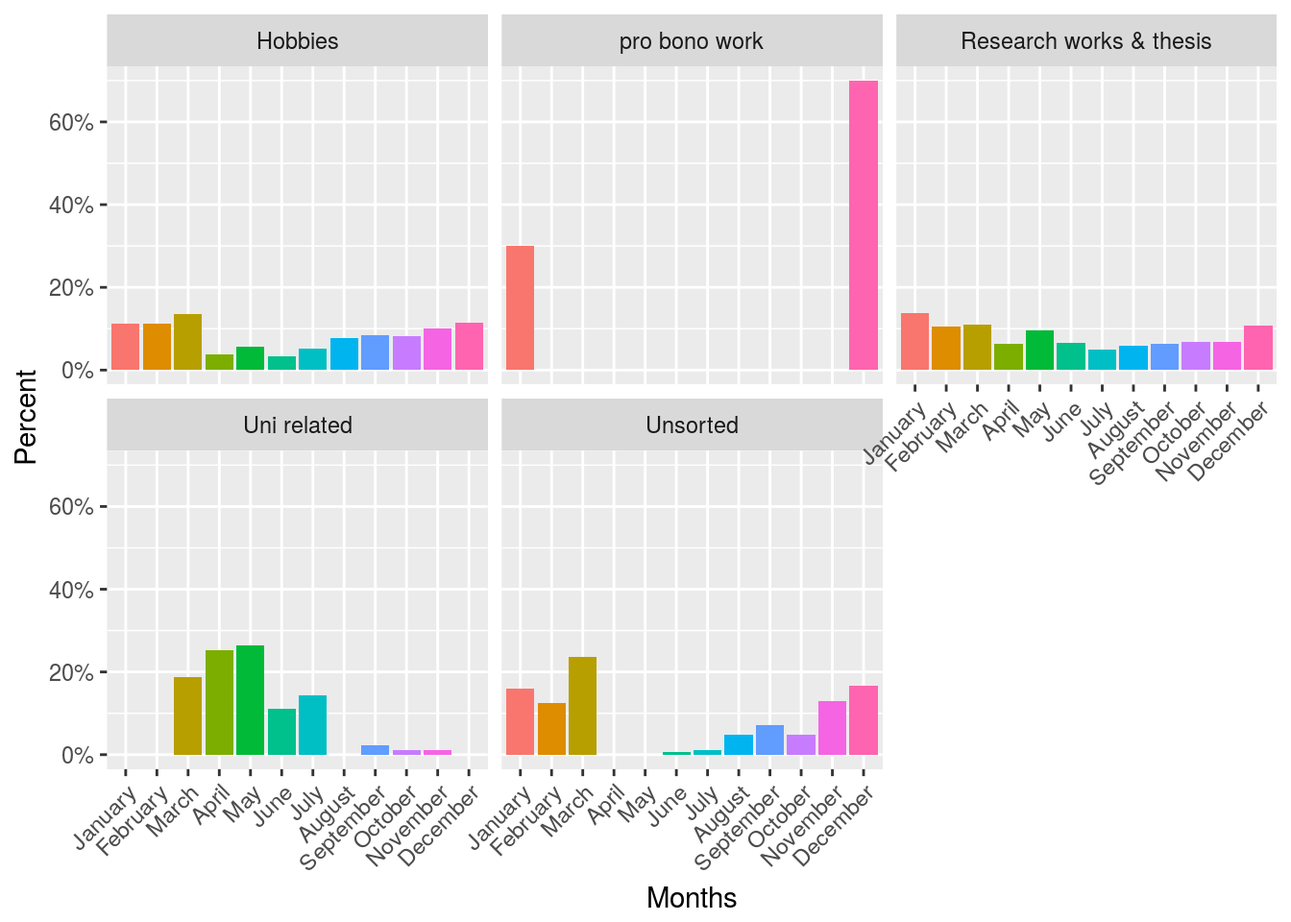
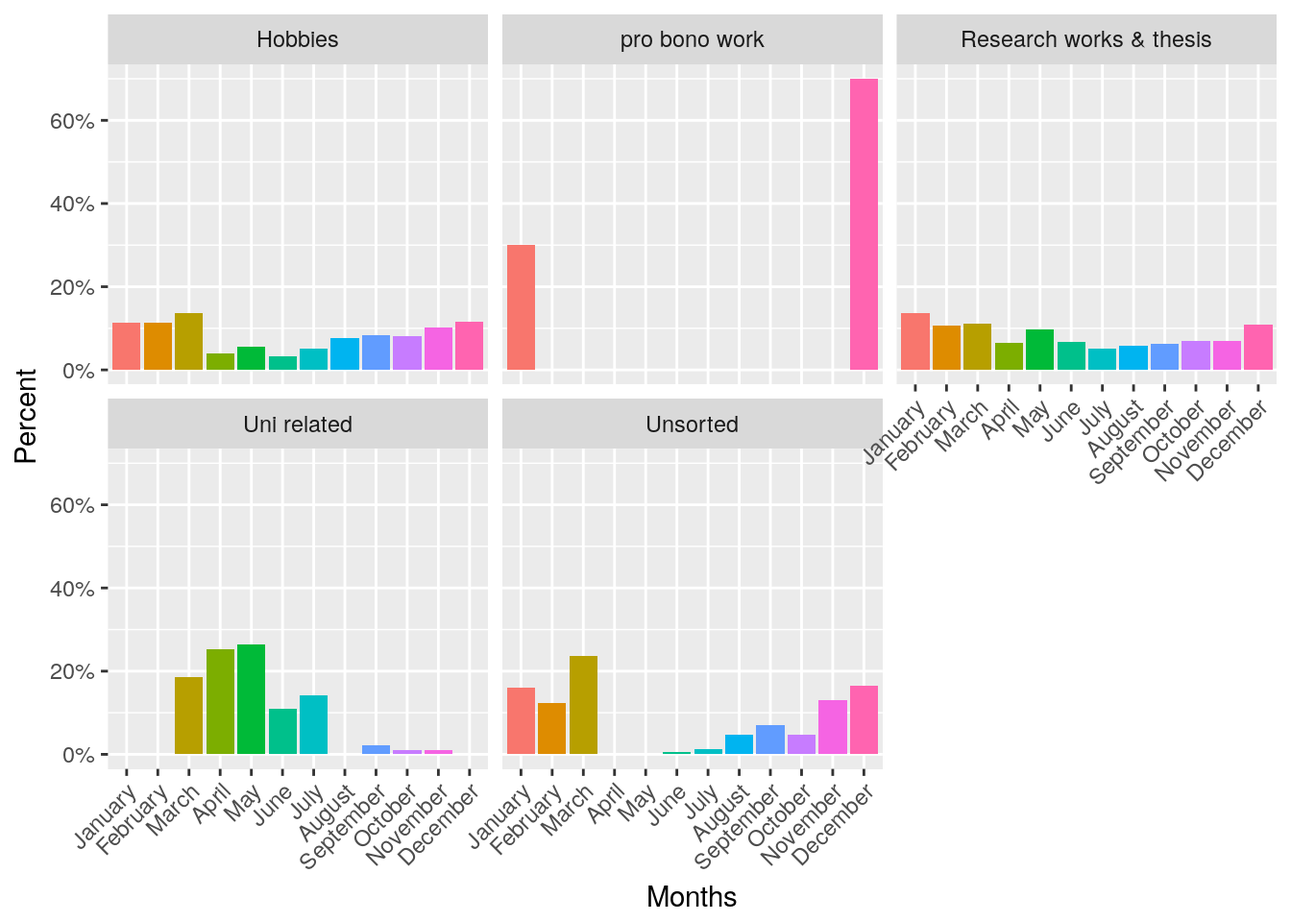
minor changes in CV, added subject based plots to time track post, added video iframe to gscholar app post

diff --git a/time_track_my_activities.html b/time_track_my_activities.html
@@ -447,8 +447,8 @@ highes_and_lowest_frequent_activities &lt;- activities_460_days %&gt;%
 
 # Ten most frequent and time consuming activities 
 DT::datatable(arrange(.data = highes_and_lowest_frequent_activities, desc(frequency))[1:10, ], caption = &quot;10 most frequent and 10 most time consuming activities (Sort based on &#39;frequency&#39; or &#39;time_spent&#39; columns by click)&quot;)</code></pre>
-<div id="htmlwidget-1ce63391b1d425d424d5" style="width:100%;height:auto;" class="datatables html-widget"></div>
-<script type="application/json" data-for="htmlwidget-1ce63391b1d425d424d5">{"x":{"filter":"none","caption":"<caption>10 most frequent and 10 most time consuming activities (Sort based on 'frequency' or 'time_spent' columns by click)<\/caption>","data":[["1","2","3","4","5","6","7","8","9","10"],["Research works &amp; thesis","Hobbies","Hobbies","Research works &amp; thesis","Hobbies","Hobbies","Research works &amp; thesis","Research works &amp; thesis","Unsorted","Hobbies"],["general think &amp; planing or discussion","checking Email &amp; internet &amp; social media","TV series &amp; Movies","Data gathering &amp; analysis","hangout with friends or going out with them","bike ride","Literature review","writing reports","cleaning &amp; home activities","Runing &amp; jogging &amp; walking &amp; swimming"],[844,684,394,350,338,277,199,185,169,145],[44746,21658,32604,43517,29367,8516,19178,20334,5101,7521],[746,361,543,725,489,142,320,339,85,125]],"container":"<table class=\"display\">\n  <thead>\n    <tr>\n      <th> <\/th>\n      <th>category<\/th>\n      <th>activity<\/th>\n      <th>frequency<\/th>\n      <th>time_spent_minutes<\/th>\n      <th>time_spent_hours<\/th>\n    <\/tr>\n  <\/thead>\n<\/table>","options":{"columnDefs":[{"className":"dt-right","targets":[3,4,5]},{"orderable":false,"targets":0}],"order":[],"autoWidth":false,"orderClasses":false},"selection":{"mode":"multiple","selected":null,"target":"row"}},"evals":[],"jsHooks":[]}</script>
+<div id="htmlwidget-6e5e61086a0e14767c24" style="width:100%;height:auto;" class="datatables html-widget"></div>
+<script type="application/json" data-for="htmlwidget-6e5e61086a0e14767c24">{"x":{"filter":"none","caption":"<caption>10 most frequent and 10 most time consuming activities (Sort based on 'frequency' or 'time_spent' columns by click)<\/caption>","data":[["1","2","3","4","5","6","7","8","9","10"],["Research works &amp; thesis","Hobbies","Hobbies","Research works &amp; thesis","Hobbies","Hobbies","Research works &amp; thesis","Research works &amp; thesis","Unsorted","Hobbies"],["general think &amp; planing or discussion","checking Email &amp; internet &amp; social media","TV series &amp; Movies","Data gathering &amp; analysis","hangout with friends or going out with them","bike ride","Literature review","writing reports","cleaning &amp; home activities","Runing &amp; jogging &amp; walking &amp; swimming"],[844,684,394,350,338,277,199,185,169,145],[44746,21658,32604,43517,29367,8516,19178,20334,5101,7521],[746,361,543,725,489,142,320,339,85,125]],"container":"<table class=\"display\">\n  <thead>\n    <tr>\n      <th> <\/th>\n      <th>category<\/th>\n      <th>activity<\/th>\n      <th>frequency<\/th>\n      <th>time_spent_minutes<\/th>\n      <th>time_spent_hours<\/th>\n    <\/tr>\n  <\/thead>\n<\/table>","options":{"columnDefs":[{"className":"dt-right","targets":[3,4,5]},{"orderable":false,"targets":0}],"order":[],"autoWidth":false,"orderClasses":false},"selection":{"mode":"multiple","selected":null,"target":"row"}},"evals":[],"jsHooks":[]}</script>
 <p>After sorting above table based on ‘<strong>frequency</strong>’ or ‘<strong>time_spent</strong>’ columns (by clicking on the column names), one interesting fact gets revealed. I call it <em>memory’s misleading recalls</em>! I don’t know if it is a thing in Psychology and similar sciences or not, but with experience I have found out that my memory reminds (or emphasizes) some activities more than others, and when I think about those activities, <em>I realize my memory tends to pick them based on the frequency of the times I have been doing them, not based on the time spent on them</em>.</p>
 <p>Let me put it in an example, imagine that in a long working day, I have spent two big shares of my time, in an uninterrupted manner, on my research activities, each for 3 hours. But during this day, for five times I had to check a social media page to follow-up news on an ongoing event, each time for 5-10 minutes.</p>
 <p>At the end of the day, my perfectionist mind tricks me into believing that I have been checking that social media page a lot during the day and I haven’t worked much, while looking at the time spent on these activities we clearly see that they are not comparable.</p>
@@ -458,8 +458,8 @@ DT::datatable(activities_460_days %&gt;%
   group_by(category) %&gt;% 
   summarise(frequency = n(), time_spent = sum(duration_minutes, na.rm = T)) %&gt;%
   arrange(desc(time_spent)))</code></pre>
-<div id="htmlwidget-9ff1045e2a2f734c6e71" style="width:100%;height:auto;" class="datatables html-widget"></div>
-<script type="application/json" data-for="htmlwidget-9ff1045e2a2f734c6e71">{"x":{"filter":"none","data":[["1","2","3","4","5"],["Research works &amp; thesis","Hobbies","Uni related","Unsorted","pro bono work"],[1777,1975,91,169,10],[151784,107931,9841,5101,902]],"container":"<table class=\"display\">\n  <thead>\n    <tr>\n      <th> <\/th>\n      <th>category<\/th>\n      <th>frequency<\/th>\n      <th>time_spent<\/th>\n    <\/tr>\n  <\/thead>\n<\/table>","options":{"columnDefs":[{"className":"dt-right","targets":[2,3]},{"orderable":false,"targets":0}],"order":[],"autoWidth":false,"orderClasses":false},"selection":{"mode":"multiple","selected":null,"target":"row"}},"evals":[],"jsHooks":[]}</script>
+<div id="htmlwidget-99e0dddce337580f3f1f" style="width:100%;height:auto;" class="datatables html-widget"></div>
+<script type="application/json" data-for="htmlwidget-99e0dddce337580f3f1f">{"x":{"filter":"none","data":[["1","2","3","4","5"],["Research works &amp; thesis","Hobbies","Uni related","Unsorted","pro bono work"],[1777,1975,91,169,10],[151784,107931,9841,5101,902]],"container":"<table class=\"display\">\n  <thead>\n    <tr>\n      <th> <\/th>\n      <th>category<\/th>\n      <th>frequency<\/th>\n      <th>time_spent<\/th>\n    <\/tr>\n  <\/thead>\n<\/table>","options":{"columnDefs":[{"className":"dt-right","targets":[2,3]},{"orderable":false,"targets":0}],"order":[],"autoWidth":false,"orderClasses":false},"selection":{"mode":"multiple","selected":null,"target":"row"}},"evals":[],"jsHooks":[]}</script>
 </div>
 <div id="most-least-active-month-week-day-and-hour-of-day" class="section level3">
 <h3>Most &amp; least active month, week, day and hour of day</h3>
@@ -488,7 +488,7 @@ ggplot(activities_460_days, aes(x = month_day,  group = category)) +
     facet_wrap(~category_2cat) +
     scale_y_continuous(labels = percent) +
       guides(fill = FALSE) +
-  theme(axis.text.x = element_text(angle = 0, hjust = 1)) +
+  theme(axis.text.x = element_text(angle = 45, hjust = 1)) +
   scale_x_continuous(breaks = pretty_breaks(n = 31)(1:31))</code></pre>
 <p><img src="time_track_my_activities_files/figure-html/month%20day%20and%20week%20activities%202-1.png" width="672" /></p>
 <p>It is surprising for me that overall speaking, on 9<sup>th</sup> and 31<sup>st</sup> days of the month I have been the most active on <em>work related stuff</em>, Why? I have to check the reason on my calendar and through comparative analysis of other sources (like <a href="./my_google_searches.html">Google searches</a>). But in case of <code>Hobbies</code> I have been allocating quite similar share of time to them during days of month.</p>
@@ -567,16 +567,46 @@ ggplot() +
 <p><img src="time_track_my_activities_files/figure-html/most%20active%20hours%20of%20day-2.png" width="672" /></p>
 <pre class="r"><code># you can do above in a more efficient way by plotting a bar plot in a grouped way, to have start and end times for work and hobby compared together, it will need turning data set to long format, you can try it as an alternative way of presenting results</code></pre>
 <p>This shows the hours and the number of times I have <em>started</em> and <em>ended</em> activities. The time which I have started highest number of <code>Work</code> activities have been <strong>9</strong>. And the time which I have started highest number of <code>Hobby</code> activities have been <strong>19</strong>.</p>
-<!-- ### Comparative trends of activities and categories over time -->
 <!-- ### my recorded activities versus my Googe searches -->
 <!-- - You can summarize the activities over months and weeks and compare it with Google searches data to see if there are similar trends or not? -->
-<!-- ### Other trends to consider (point 7 on my notes) -->
-<!-- - you can add more detailed questions like "what research activity I have spend the most time on?" or "how has been the trend of my workouts in this year?" -->
+</div>
+<div id="time-trend-of-activities-based-on-subject" class="section level3">
+<h3>Time trend of activities based on subject</h3>
+<p>Here I have tried to answer questions like “What research activity I have spend the most time on?” or “How has been the trend of my workouts in this year?” So I have tried to have a look at the time trend of activities based on their subjects.</p>
+<pre class="r"><code>research_activities &lt;- activities_460_days %&gt;% 
+  filter(category %in% &quot;Research works &amp; thesis&quot;)
+
+ggplot(research_activities, aes(x = month_name,  group = activity)) + 
+    geom_bar(aes(y = ..prop.., fill = factor(..x..)), stat = &quot;count&quot;) +
+    # geom_text(aes( label = scales::percent(..prop..),
+    #                y = ..prop.. ), stat = &quot;count&quot;, vjust = -.20) +
+    labs(y = &quot;Percent&quot;, x = &quot;Months&quot;, fill = &quot;activity&quot;, scale_color_manual(labels = as.factor(research_activities$activity))) +
+    facet_wrap(~activity) +
+    scale_y_continuous(labels = percent) +
+      guides(fill = FALSE) +
+  theme(axis.text.x = element_text(angle = 45, hjust = 1))</code></pre>
+<p><img src="time_track_my_activities_files/figure-html/how%20I%20have%20done%20research-1.png" width="672" /></p>
+<p>Aparently, there are main research activities that I have been spending quite similar share of time on them during the whole period under focus, like <em>general think and discussions</em>, <em>data gathering</em> and <em>literature review</em>. On the other hand, I have not been <em>writing reports</em> of the researches all the time or in a equal fashion.</p>
+<pre class="r"><code>leisure_activities &lt;- activities_460_days %&gt;% 
+  filter(category %in% &quot;Hobbies&quot;)
+
+ggplot(leisure_activities, aes(x = month_name,  group = activity)) + 
+    geom_bar(aes(y = ..prop.., fill = factor(..x..)), stat = &quot;count&quot;) +
+    # geom_text(aes( label = scales::percent(..prop..),
+    #                y = ..prop.. ), stat = &quot;count&quot;, vjust = -.20) +
+    labs(y = &quot;Percent&quot;, x = &quot;Months&quot;, fill = &quot;activity&quot;, scale_color_manual(labels = as.factor(leisure_activities$activity))) +
+    facet_wrap(~activity) +
+    scale_y_continuous(labels = percent) +
+      guides(fill = FALSE) +
+  theme(axis.text.x = element_text(angle = 45, hjust = 1))</code></pre>
+<p><img src="time_track_my_activities_files/figure-html/how%20I%20have%20done%20leisure-1.png" width="672" /></p>
+<p>Seems checking social media and being on internet and watching tv series and movies are among those hobbies I have been allocating quite flat share of time to them, while riding bike or running have experienced ups and downs.</p>
 </div>
 </div>
 <div id="closing-words" class="section level2">
 <h2>Closing words</h2>
-<p>This has been another practice for me in using R to analyze and generate a dynamic report based on real empirical data and also to get better in writing code and scripts with expressive and useful comments that can be used to teach R to newbies. Beside that it was an opportunity to know myself better. To have a detailed view towards my research and hobby activities. But, this is not yet finished, I hope to put time on adding other ideas to make this report more insightful first for myself, then to other interested people.</p>
+<p>This has been another practice for me in using R to analyze and generate a dynamic report based on real empirical data and also to get better in writing code and scripts with expressive and useful comments that can be used to teach R.</p>
+<p>Beside that it was an opportunity to know myself better. To have a detailed view towards my research and hobby activities. But, this is not yet finished, I hope to put time on adding other ideas to make this report more insightful, first for myself.</p>
 </div>
 
 

diff --git a/3AT_cv.html b/3AT_cv.html
@@ -307,13 +307,13 @@ div.tocify {
 <div id="all-my-activities-in-one-glance" class="section level2">
 <h2>All my activities in one glance</h2>
 <p>Use mouse scroll to zoom in and out to explore more, drag to move on the timeline.</p>
-<div id="htmlwidget-7ddf8e22afc718bc24be" class="timevis html-widget" style="width:100%;height:480px;">
+<div id="htmlwidget-82c2731d4325ac3c5dd4" class="timevis html-widget" style="width:100%;height:480px;">
 <div class="btn-group zoom-menu">
 <button type="button" class="btn btn-default btn-lg zoom-in" title="Zoom in">+</button>
 <button type="button" class="btn btn-default btn-lg zoom-out" title="Zoom out">-</button>
 </div>
 </div>
-<script type="application/json" data-for="htmlwidget-7ddf8e22afc718bc24be">{"x":{"items":[{"group":"1","content":"BA","start":"2004-09-21","end":"2008-07-21"},{"group":"1","content":"MA","start":"2008-09-21","end":"2011-07-21"},{"group":"1","content":"1st PhD","start":"2011-09-21","end":"2015-10-30"},{"group":"1","content":"2nd PhD","start":"2015-11-01","end":"2018-10-01"},{"group":"2","content":"1st PhD visit Brest France","start":"2015-02-24","end":"2015-07-30"},{"group":"2","content":"1st PhD visit Barcelona Spain","start":"2015-07-06","end":"2015-07-30"},{"group":"3","content":"ABM Unibs","start":"2017-09-04","end":"2017-09-08"},{"group":"3","content":"Python Trento uni","start":"2017-04-12","end":"2017-04-13"},{"group":"3","content":"ABM Unibs","start":"2016-06-20","end":"2016-06-24"},{"group":"3","content":"Rsiena 2nd EUSN","start":"2016-06-14 09:00","end":"2016-06-14 12:00"},{"group":"3","content":"TERGM 2nd EUSN","start":"2016-06-14 14:00","end":"2016-06-14 17:00"},{"group":"3","content":"SNA Lugano PhD Course","start":"2016-04-29","end":"2016-06-08"},{"group":"3","content":"ERGM Lugano USI","start":"2016-04-18","end":"2016-04-20"},{"group":"3","content":"PNA Barcelona Spain","start":"2015-07-06","end":"2015-07-10"},{"group":"4","content":"Sooremehr R&D","start":"2011-09-21","end":"2013-12-21"},{"group":"4","content":"MCI R&D","start":"2014-01-05","end":"2014-05-05"},{"group":"5","content":"Yazd uni","start":"2012-01-10","end":"2013-07-21"},{"group":"5","content":"AST uni","start":"2012-04-01","end":"2013-07-21"}],"groups":[{"id":"1","content":"Education"},{"id":"2","content":"Research visit"},{"id":"3","content":"Short courses"},{"id":"4","content":"Work"},{"id":"5","content":"Part-time Teaching"}],"showZoom":true,"zoomFactor":0.5,"fit":true,"options":[],"height":null,"api":[]},"evals":[],"jsHooks":[]}</script>
+<script type="application/json" data-for="htmlwidget-82c2731d4325ac3c5dd4">{"x":{"items":[{"group":"1","content":"BA","start":"2004-09-21","end":"2008-07-21"},{"group":"1","content":"MA","start":"2008-09-21","end":"2011-07-21"},{"group":"1","content":"1st PhD","start":"2011-09-21","end":"2015-10-30"},{"group":"1","content":"2nd PhD","start":"2015-11-01","end":"2018-10-01"},{"group":"2","content":"1st PhD visit Brest France","start":"2015-02-24","end":"2015-07-30"},{"group":"2","content":"1st PhD visit Barcelona Spain","start":"2015-07-06","end":"2015-07-30"},{"group":"3","content":"ABM Unibs","start":"2017-09-04","end":"2017-09-08"},{"group":"3","content":"Python Trento uni","start":"2017-04-12","end":"2017-04-13"},{"group":"3","content":"ABM Unibs","start":"2016-06-20","end":"2016-06-24"},{"group":"3","content":"Rsiena 2nd EUSN","start":"2016-06-14 09:00","end":"2016-06-14 12:00"},{"group":"3","content":"TERGM 2nd EUSN","start":"2016-06-14 14:00","end":"2016-06-14 17:00"},{"group":"3","content":"SNA Lugano PhD Course","start":"2016-04-29","end":"2016-06-08"},{"group":"3","content":"ERGM Lugano USI","start":"2016-04-18","end":"2016-04-20"},{"group":"3","content":"PNA Barcelona Spain","start":"2015-07-06","end":"2015-07-10"},{"group":"4","content":"Sooremehr R&D","start":"2011-09-21","end":"2013-12-21"},{"group":"4","content":"MCI R&D","start":"2014-01-05","end":"2014-05-05"},{"group":"5","content":"Yazd uni","start":"2012-01-10","end":"2013-07-21"},{"group":"5","content":"AST uni","start":"2012-04-01","end":"2013-07-21"}],"groups":[{"id":"1","content":"Education"},{"id":"2","content":"Research visit"},{"id":"3","content":"Short courses"},{"id":"4","content":"Work"},{"id":"5","content":"Part-time Teaching"}],"showZoom":true,"zoomFactor":0.5,"fit":true,"options":[],"height":null,"api":[]},"evals":[],"jsHooks":[]}</script>
 </div>
 <div id="personal-and-contact-information" class="section level2">
 <h2>Personal and Contact information</h2>
@@ -431,7 +431,7 @@ div.tocify {
 <ul>
 <li><strong>Workshop Instructor</strong> and Organizer in research methods and SNA (Social Network Analysis)
 <ul>
-<li>Teaching more than <strong>10 workshops</strong> about how to formulate research problems and do network analysis using Pajek and NodeXL</li>
+<li>Teaching more than <a href="http://goo.gl/3L6j2U"><strong>10 workshops</strong></a> about how to formulate research problems and do network analysis using Pajek and NodeXL <a href="http://goo.gl/3L6j2U"><strong>see visual history here</strong></a></li>
 </ul></li>
 <li><strong>University lecturer</strong> in field of Sociology for more than two years;
 <ul>
@@ -466,7 +466,7 @@ div.tocify {
 <ul>
 <li><strong>Akbaritabar, Aliakbar</strong>, (2017) <em>Iranian’s Cyber Social Capital A comparative SNA study on a sample of English, French and Persian speaking users of Facebook &amp; Google plus</em>, SNA group, Iranian Sociological Association - June 19th, 2017, Tehran, Iran</li>
 <li><strong>Akbaritabar, Aliakbar</strong>, Casnici, Niccolo, Squazzoni, Flaminio (2017) <em>Where are sociologists embedded? A study on research productivity of sociologists in Italy</em>, GECS (research Group in Experimental and Computational Sociology) seminars - January 13, 2017, University of Brescia, Brescia, Italy</li>
-<li><strong>Akbaritabar, Aliakbar</strong>, (2016) <em>how do scholars collaborate with each other? Comparative study on Co-authorship Networks of Scholars Worldwide Using Big Data</em>, Second European Conference on Social Networks (EUSN), June 14-17, 2016, Paris, France <a href="https://www.youtube.com/watch?v=h2QIYbMJ3v4&amp;t=7s">(see here)</a></li>
+<li><strong>Akbaritabar, Aliakbar</strong>, (2016) <em>how do scholars collaborate with each other? Comparative study on Co-authorship Networks of Scholars Worldwide Using Big Data</em>, Second European Conference on Social Networks (EUSN), June 14-17, 2016, Paris, France <a href="https://www.youtube.com/watch?v=h2QIYbMJ3v4&amp;t=7s">(see video here)</a> and <a href="https://eusn2016.sciencesconf.org/conference/eusn2016/program_overview.pdf">here</a></li>
 <li><strong>Akbaritabar, Aliakbar</strong>, Hezarjaribi, jafar (2015) <em>Virtual/Cyber Social Capital; a new method to measure Online Social Capital</em>, 35th Sunbelt Organized by INSNA, June 23th -28th, Brighton, UK <a href="https://www.youtube.com/watch?v=XrfMEmpmFyw&amp;t=1s">(see here)</a></li>
 <li><strong>Akbaritabar, Aliakbar</strong>, Eskandaripour, Ebrahim, Ahmadigharacheh, Ehsan (2015) <em>Virtual/Cyber Social Capital; a new method to measure Online Social Capital</em>, 1st Annual Computational Social Science Summit: Collaborative Futures, 15-17 May 2015, Kellogg School of Management, Northwestern University, USA (Poster presentation)</li>
 <li><strong>Akbaritabar, Aliakbar</strong> (2013) <em>Organizational Network Analysis (ONA): How Social Media will change the way Information is shared in Organizations</em>, Second National Conference on Social Media day, May 2013, Tehran, Iran</li>
@@ -492,7 +492,7 @@ div.tocify {
 <h3>Accepted but not presented (due to financial, visa or personal issues)</h3>
 <ul>
 <li><strong>Akbaritabar, Aliakbar</strong>, Bianchi, Federico, Jullien, Nicolas (2017) <em>Fairness and Reciprocity in Online Communities. A Large-Scale Survey Experiment among French Wikipedia Users</em>, accepted to be presented Orally, 3rd European social networks conference, September 26-29, 2017, Mainz, Germany</li>
-<li><strong>Akbaritabar, Aliakbar</strong>, Hezarjaribi, Jafar, Jullien, Nicolas (2015) <em>Virtual/Cyber Social Capital; a new method to measure Online Social Capital</em>, accepted to be presented Orally and published in The 2015 IEEE/ACM International Conference on Advances in Social Networks Analysis and Mining (ASONAM), August 25-28, 2015, Paris, France</li>
+<li><strong>Akbaritabar, Aliakbar</strong>, Hezarjaribi, Jafar, Jullien, Nicolas (2015) <em>Virtual/Cyber Social Capital; a new method to measure Online Social Capital</em>, accepted to be presented Orally and published in The 2015 IEEE/ACM International Conference on Advances in Social Networks Analysis and Mining (ASONAM), August 25-28, 2015, Paris, France <a href="http://asonam.cpsc.ucalgary.ca/2015/AcceptedMultidisciplinaryTrack.php">see here</a></li>
 <li><strong>Akbaritabar, Aliakbar</strong> (2013) <em>A SNA Study on Iranian Online Social Networks; Case Study of Doreh and U24</em>, accepted for Oral presentation at 33th Sunbelt Organized by INSNA, May 21th-26th, 2013, Hamburg, Germany</li>
 <li><strong>Akbaritabar, Aliakbar</strong> (2011) <em>A SNA Study of Social Networking Sites</em>, accepted for Oral presentation at 7th UKSNA, July 7th-9th, 2011, University of Greenwich, UK</li>
 <li><strong>Akbaritabar, Aliakbar</strong> (2011) <em>A SNA Study of Online Social Networks</em>, accepted for Oral presentation at 1st Global Conference on Social Networking Revolutions, September 7-9, 2011, Washington University, USA</li>
@@ -544,7 +544,7 @@ div.tocify {
 <li>Manager of Persian website of www.Networkanalysis.ir publishing scientific contents about Organizational Network Analysis. (not accessible at the moment)</li>
 <li>Member of International Network for Social Network Analysis (INSNA), 2015-6</li>
 <li>Member of Iranian National Association of Social Welfare</li>
-<li>Interview with <a href="mailto:M@rsouin">M@rsouin</a> institute about Social Village <a href="https://www.marsouin.org/article667.html">(<strong>see here</strong>)</a></li>
+<li>Interview with <a href="mailto:M@rsouin">M@rsouin</a> institute about Social Village <a href="https://www.marsouin.org/article667.html">(<strong>see here</strong></a> and <a href="http://www.imt-atlantique.fr/lexians/2015/recherche/les-reseaux-sociaux-un-moyen-daugmenter-son-capital-social-interview-de-aliakbar-akbaritabar-doctorant-iranien/"><strong>here</strong>)</a></li>
 <li>Excellent Teamwork skills</li>
 </ul>
 </div>

diff --git a/my_google_searches.html b/my_google_searches.html
@@ -482,13 +482,13 @@ time_line_data &lt;- read.csv(&quot;./data/time_line_data.csv&quot;)
 time_line_groups &lt;- read.csv(&quot;./data/time_line_data_groups.csv&quot;)
 
 timevis(data = time_line_data, groups = time_line_groups, fit = T)</code></pre>
-<div id="htmlwidget-4b2ad6b3057ce2f00743" class="timevis html-widget" style="width:672px;height:480px;">
+<div id="htmlwidget-548b384c6dc6b9574d54" class="timevis html-widget" style="width:672px;height:480px;">
 <div class="btn-group zoom-menu">
 <button type="button" class="btn btn-default btn-lg zoom-in" title="Zoom in">+</button>
 <button type="button" class="btn btn-default btn-lg zoom-out" title="Zoom out">-</button>
 </div>
 </div>
-<script type="application/json" data-for="htmlwidget-4b2ad6b3057ce2f00743">{"x":{"items":[{"group":"1","content":"BA","start":"2004-09-21","end":"2008-07-21"},{"group":"1","content":"MA","start":"2008-09-21","end":"2011-07-21"},{"group":"1","content":"1st PhD","start":"2011-09-21","end":"2015-10-30"},{"group":"1","content":"2nd PhD","start":"2015-11-01","end":"2018-10-01"},{"group":"2","content":"1st PhD visit Brest France","start":"2015-02-24","end":"2015-07-30"},{"group":"2","content":"1st PhD visit Barcelona Spain","start":"2015-07-06","end":"2015-07-30"},{"group":"3","content":"ABM Unibs","start":"2017-09-04","end":"2017-09-08"},{"group":"3","content":"Python Trento uni","start":"2017-04-12","end":"2017-04-13"},{"group":"3","content":"ABM Unibs","start":"2016-06-20","end":"2016-06-24"},{"group":"3","content":"Rsiena 2nd EUSN","start":"2016-06-14 09:00","end":"2016-06-14 12:00"},{"group":"3","content":"TERGM 2nd EUSN","start":"2016-06-14 14:00","end":"2016-06-14 17:00"},{"group":"3","content":"SNA Lugano PhD Course","start":"2016-04-29","end":"2016-06-08"},{"group":"3","content":"ERGM Lugano USI","start":"2016-04-18","end":"2016-04-20"},{"group":"3","content":"PNA Barcelona Spain","start":"2015-07-06","end":"2015-07-10"},{"group":"4","content":"Sooremehr R&D","start":"2011-09-21","end":"2013-12-21"},{"group":"4","content":"MCI R&D","start":"2014-01-05","end":"2014-05-05"},{"group":"5","content":"Yazd uni","start":"2012-01-10","end":"2013-07-21"},{"group":"5","content":"AST uni","start":"2012-04-01","end":"2013-07-21"}],"groups":[{"id":"1","content":"Education"},{"id":"2","content":"Research visit"},{"id":"3","content":"Short courses"},{"id":"4","content":"Work"},{"id":"5","content":"Part-time Teaching"}],"showZoom":true,"zoomFactor":0.5,"fit":true,"options":[],"height":null,"api":[]},"evals":[],"jsHooks":[]}</script>
+<script type="application/json" data-for="htmlwidget-548b384c6dc6b9574d54">{"x":{"items":[{"group":"1","content":"BA","start":"2004-09-21","end":"2008-07-21"},{"group":"1","content":"MA","start":"2008-09-21","end":"2011-07-21"},{"group":"1","content":"1st PhD","start":"2011-09-21","end":"2015-10-30"},{"group":"1","content":"2nd PhD","start":"2015-11-01","end":"2018-10-01"},{"group":"2","content":"1st PhD visit Brest France","start":"2015-02-24","end":"2015-07-30"},{"group":"2","content":"1st PhD visit Barcelona Spain","start":"2015-07-06","end":"2015-07-30"},{"group":"3","content":"ABM Unibs","start":"2017-09-04","end":"2017-09-08"},{"group":"3","content":"Python Trento uni","start":"2017-04-12","end":"2017-04-13"},{"group":"3","content":"ABM Unibs","start":"2016-06-20","end":"2016-06-24"},{"group":"3","content":"Rsiena 2nd EUSN","start":"2016-06-14 09:00","end":"2016-06-14 12:00"},{"group":"3","content":"TERGM 2nd EUSN","start":"2016-06-14 14:00","end":"2016-06-14 17:00"},{"group":"3","content":"SNA Lugano PhD Course","start":"2016-04-29","end":"2016-06-08"},{"group":"3","content":"ERGM Lugano USI","start":"2016-04-18","end":"2016-04-20"},{"group":"3","content":"PNA Barcelona Spain","start":"2015-07-06","end":"2015-07-10"},{"group":"4","content":"Sooremehr R&D","start":"2011-09-21","end":"2013-12-21"},{"group":"4","content":"MCI R&D","start":"2014-01-05","end":"2014-05-05"},{"group":"5","content":"Yazd uni","start":"2012-01-10","end":"2013-07-21"},{"group":"5","content":"AST uni","start":"2012-04-01","end":"2013-07-21"}],"groups":[{"id":"1","content":"Education"},{"id":"2","content":"Research visit"},{"id":"3","content":"Short courses"},{"id":"4","content":"Work"},{"id":"5","content":"Part-time Teaching"}],"showZoom":true,"zoomFactor":0.5,"fit":true,"options":[],"height":null,"api":[]},"evals":[],"jsHooks":[]}</script>
 </div>
 <div id="closing-words" class="section level2">
 <h2>Closing words</h2>

diff --git a/Research_projects_ideas.html b/Research_projects_ideas.html
@@ -220,9 +220,10 @@ $(document).ready(function () {
 <h3>Serious Projects</h3>
 <ul>
 <li><a href="./gScholarShinyApp.html"><strong>Google Scholar Shiny App</strong></a>: A brief application to work with google scholar and build and show coauthorship networks <a href="https://www.youtube.com/watch?v=NZ5WdBnZ-CE">(see video intro here)</a></li>
-<li><strong>CNBLR</strong>: R package to do targeted and curated literature review on Scopus</li>
+<li><strong>CNBLR</strong>: R package to do targeted and curated <em>literature review</em> on Scopus</li>
 <li><strong>Facebook Influencers</strong>: Dynamic reports of public Facebook pages and groups most important influencers (using SNA approach)</li>
-<li><a href="./3AT_cv.html"><strong>Mental &amp; physical health and life satisfaction Shiny app</strong></a>: A brief Shiny application to take your idea of how mentally and physically healthy you are and your level of satisfaction with life, and compare it with average of European countries extracted from ESS survey data <!-- remember to correct the link to above shiny app --></li>
+<li><strong>Git &amp; Github (or Gitlab) for academic writing</strong>: How do I use git and github to version control my academic writing projects as a social (data) scientist!</li>
+<li><a href="https://socialdata.shinyapps.io/health/"><strong>Mental &amp; physical health and life satisfaction Shiny app</strong></a>: A brief Shiny application to take your idea of how mentally and physically healthy you are and your level of satisfaction with life, and compare it with average of European countries extracted from ESS survey data <!-- remember to correct the link to above shiny app --></li>
 </ul>
 </div>
 </div>

diff --git a/gScholarShinyApp.html b/gScholarShinyApp.html
@@ -219,6 +219,11 @@ $(document).ready(function () {
 
 
 <p>A brief application to work with google scholar and show coauthorship network <a href="https://www.youtube.com/watch?v=NZ5WdBnZ-CE">(see video intro here)</a></p>
+<div align="center">
+<iframe width="560" height="315" src="https://www.youtube.com/embed/NZ5WdBnZ-CE?rel=0" frameborder="0" allowfullscreen>
+</iframe>
+</div>
+<p><br></p>
 <ul>
 <li>In order to see coauthorship networks graph, copy link to google scholar profile of author <strong>(example: “<a href="https://scholar.google.com/citations?user=zufgVroAAAAJ&amp;hl=en" class="uri">https://scholar.google.com/citations?user=zufgVroAAAAJ&amp;hl=en</a>”)</strong> and put it in the text box provided in the application UI, you will see coauthorship network in seconds</li>
 <li>This shiny application uses scholar package in R to exctract data from google scholar</li>
